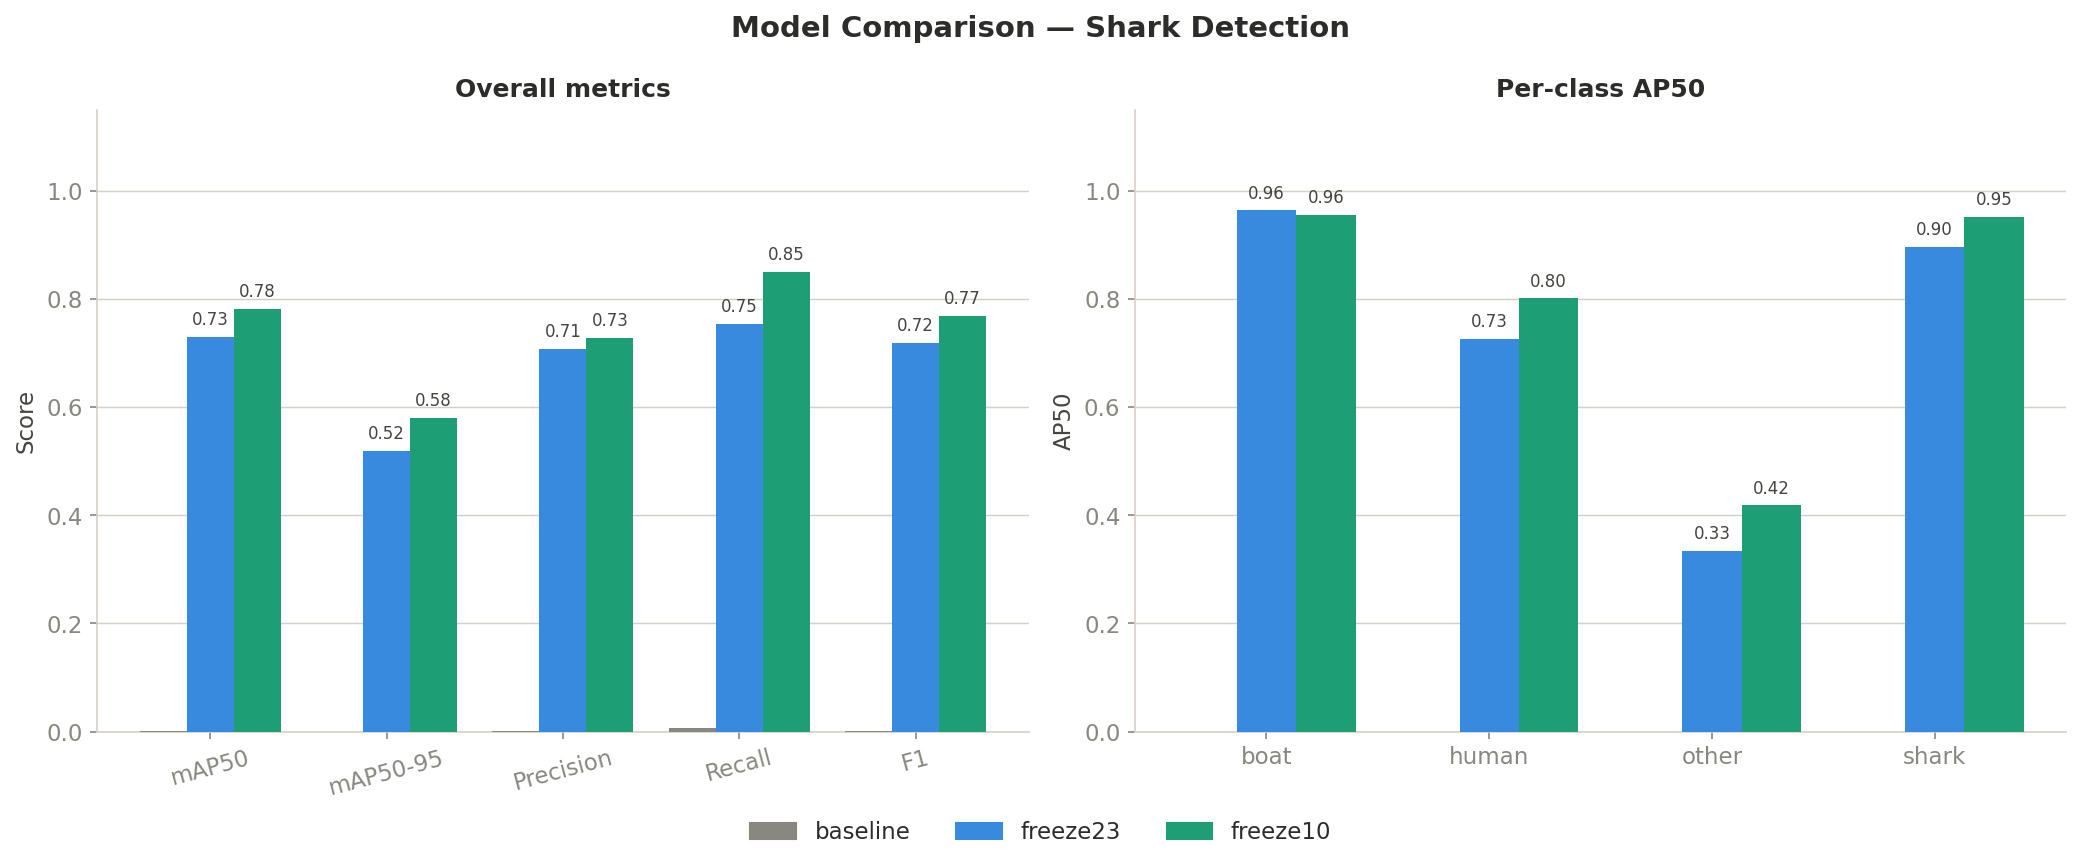
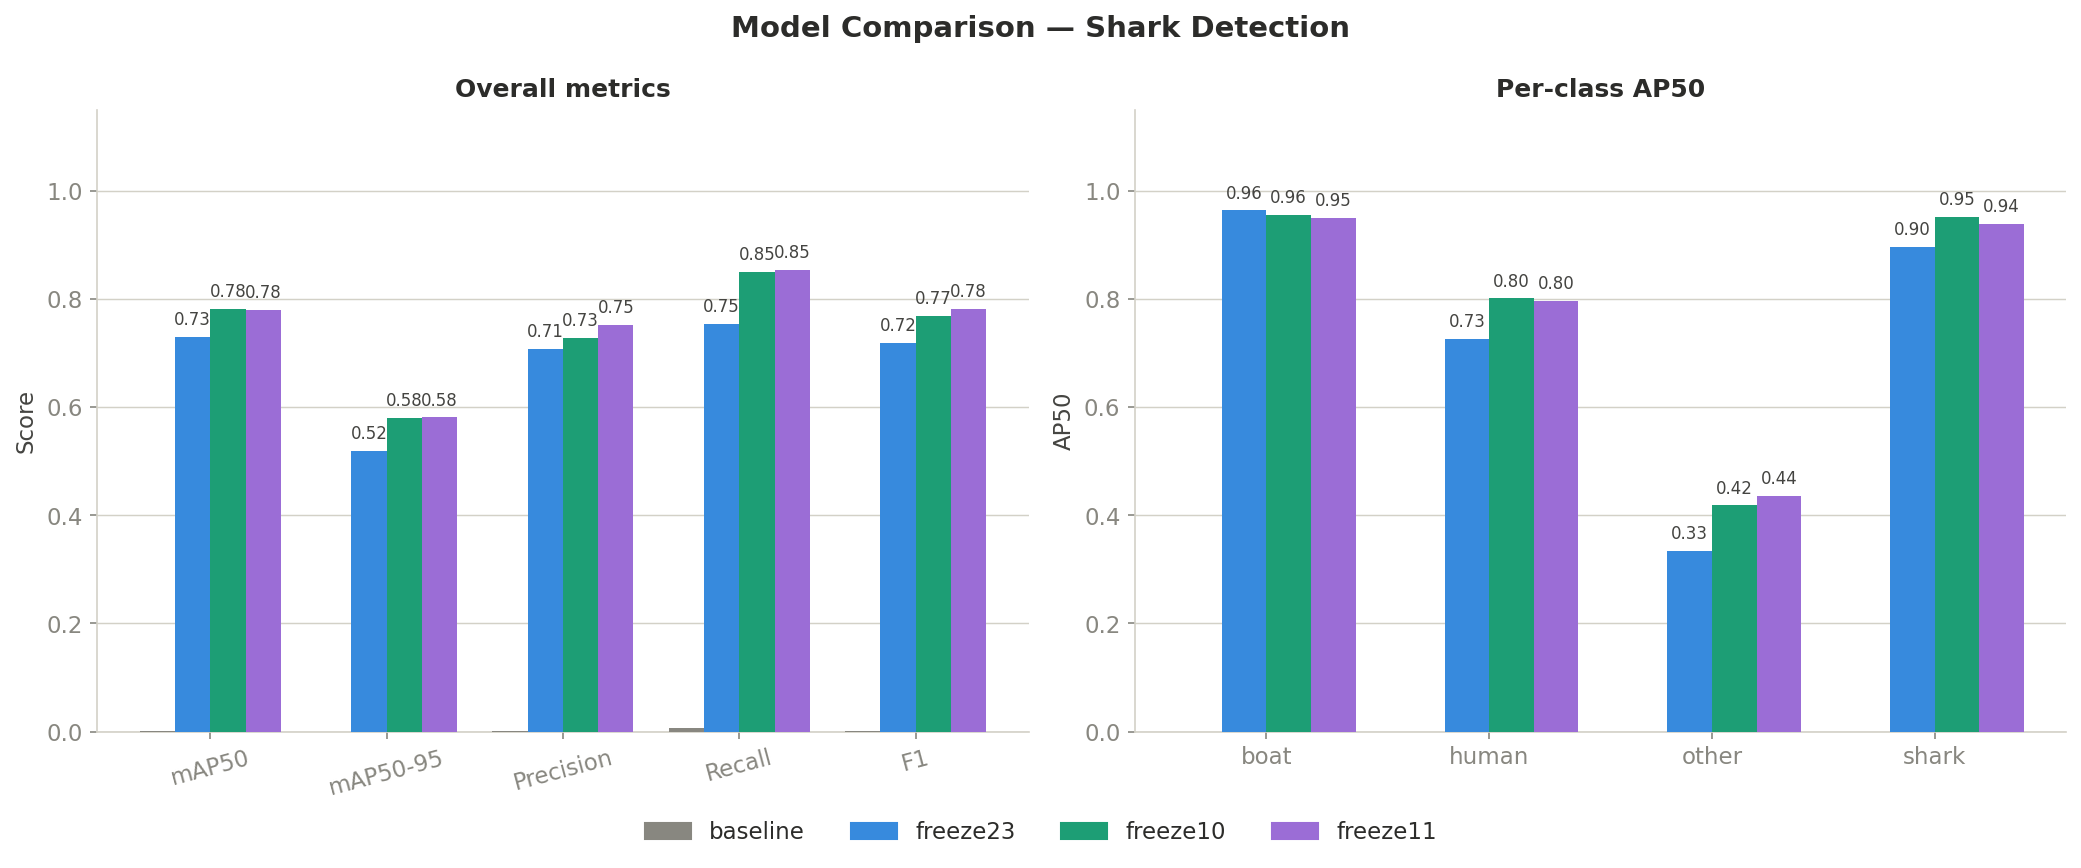
updated for a 3rd run; put desc of where model weights and tuning will live in google drive on readme

diff --git a/scripts/plot_results.py b/scripts/plot_results.py
@@ -21,6 +21,7 @@ RUNS = {
     "baseline": Path("runs/detect/baseline_yolo26l/validation/test_metrics.csv"),
     "freeze23":  Path("runs/detect/sharks_v5_freeze23/validation/test_metrics.csv"),
     "freeze10":  Path("runs/detect/sharks_v5_freeze10/validation/test_metrics.csv"),
+    "freeze11":  Path("runs/detect/sharks_v5_freeze11/validation/test_metrics.csv"),
 }
 
 def load_metrics(csv_path):
@@ -33,7 +34,7 @@ def load_metrics(csv_path):
 
 
 run_names = list(RUNS.keys())
-colors = ["#888780", "#378ADD", "#1D9E75"]  # baseline, freeze23, freeze10
+colors = ["#888780", "#378ADD", "#1D9E75", "#9B6DD6"]  # baseline, freeze23, freeze10, freeze11
 
 # validate all paths exist
 for name, path in RUNS.items():

diff --git a/README.md b/README.md
@@ -1,6 +1,8 @@
 # ML III Group Project: Team Toothless!
 
-Welcome to the project! 
+Welcome to the project!
+
+The first section of this README deals with Git and virtual environments. The second section provides links to the model weights and tuning results.
 
 We are using `uv` to manage our Python environment and dependencies. This ensures that everyone on the team is using the exact same version of Python and the exact same package versions, preventing "it works on my machine" bugs.
 
@@ -67,3 +69,12 @@ uv add <package_name>
 ```
 
 This will install the package and automatically update the `pyproject.toml` and `uv.lock` files. **You must commit and push these two files** so that when the rest of the team runs `git pull` and `uv sync`, they get the new package too!
+
+
+## Model Weights
+Fine-tuned weights are not stored in this repo. Download from:
+- sharks_v5_freeze23: [Google Drive link]
+- sharks_v5_freeze11: [Google Drive link]
+- sharks_v5_freeze10: [Google Drive link]
+
+## Tuning Results
